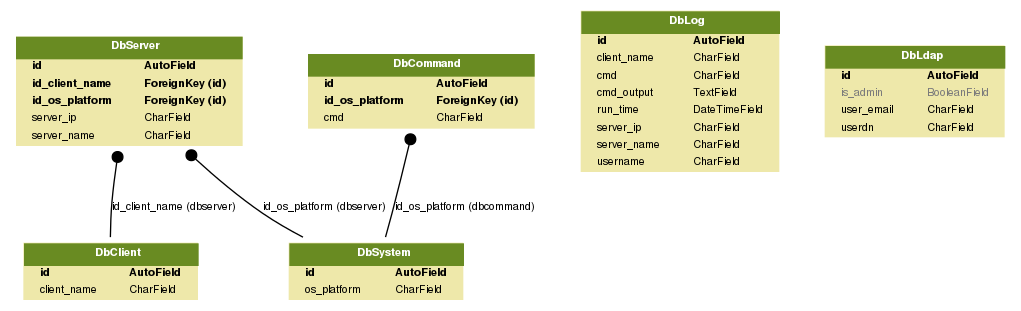
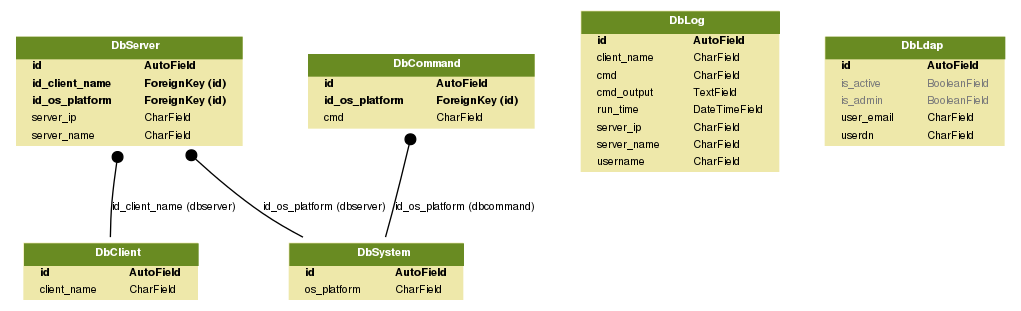
integrate with ldap

Changed region(s): [[0.7894, 0.1158, 1.0, 0.492]]

diff --git a/django_app/webapp/views.py b/django_app/webapp/views.py
@@ -6,6 +6,7 @@ from django.template import RequestContext, loader
 from webapp.models import DbClient, DbSystem, DbServer, DbCommand
 
 from ansible_django.ans_exe import get_ajax
+from ldap_stuff.use_ldap import run_main
 
 import datetime
 import json
@@ -28,6 +29,8 @@ from django.contrib.auth.decorators import login_required
 from django.contrib import auth
 from django.contrib.auth.models import User
 
+from webapp.models import DbLdap
+
 ##render -> we do not need to specify context_instance = RequestContext(request)
 ##render_to_response() -> we do 
 
@@ -36,44 +39,29 @@ USERNAME = ""
 def f(u, p):
   print u, p
   return True
-
+ 
 # auth.authenticate(username=username, password=password)
 # https://docs.djangoproject.com/en/1.10/topics/auth/customizing/
 class MyBackend(object):
   def authenticate(self, username=None, password=None):
-    #login_valid = True
-    #pwd_valid = True
-    #if login_valid and pwd_valid:
-    if f(username, password):
-        try:
-            user = User.objects.get(username=username)
-        except User.DoesNotExist:
-            # Create a new user. There's no need to set a password
-            # because only the password from settings.py is checked.
-            user = User(username=username)
-            user.is_staff = True
-            user.is_superuser = True
-            user.save()
+    #if f(username, password):
+    if run_main(username, password):
+        # run_main checks first in DbLdap if user is there (based on email) if not will add
+        user = DbLdap.objects.get(user_email=username)
         return user
     return None
-
 
 def login_auth(request):
   next = request.POST.get('next', request.GET.get('next', ''))
   if request.method == "POST":
       username = request.POST.get('username')
-      print username
       password = request.POST.get('password')
-      print password
-
-      
       #user = auth.authenticate(username=username, password=password)
       user = MyBackend().authenticate(username=username, password=password)
       print "USER", user, type(user)    # USER admin <class 'django.contrib.auth.models.User'>
-      #user = "dupa"
       if user != None:
 
-          # needed in main() to display logged user, if main view will be refreshed then user disappear - HOW TO FIX?
+          # needed in main() to display logged user
           global USERNAME
           USERNAME = user
 
@@ -92,20 +80,15 @@ def login_auth(request):
 def logout_auth(request):
     auth.logout(request)
     # Redirect back to login page
-    return HttpResponseRedirect(settings.LOGIN_URL)
+    #return HttpResponseRedirect(settings.LOGIN_URL)
+    return HttpResponseRedirect('/')
 
-#@login_required
 def main(request):
-    print request
+    print "request:", request
     print request.user.is_authenticated
+    #user.is_authenticated is by default TRUE
     if not request.user.is_authenticated:
-        print "if"
-        return redirect('/', request.path)
-        #return HttpResponseRedirect('/')
-        #return redirect('%s?next=%s' % (settings.LOGIN_URL, request.path))
-        #return render(request, 'myapp/login_error.html')
-    else:
-        print "else"
+        print "else main"
         client_var = DbClient.objects.all()           # all() -> SELECT * FROM
         system_var = DbSystem.objects.all()
         server_var = DbServer.objects.all()
@@ -116,6 +99,13 @@ def main(request):
         #print client_var, type(client_var)
         context = {'client': client_var, 'system': system_var, 'server': server_var, 'user': USERNAME}
         return render(request, 'webapp/main.html', context)
+
+    else:
+        print "if main"
+        return redirect('/', request.path)
+        #return HttpResponseRedirect('/')
+        #return redirect('%s?next=%s' % (settings.LOGIN_URL, request.path))
+        #return render(request, 'myapp/login_error.html')
 
 def ajax_main(request):
 

diff --git a/django_app/webapp/models.py b/django_app/webapp/models.py
@@ -1,7 +1,7 @@
 from __future__ import unicode_literals
 from django.db import models
 from django.utils import timezone
-import datetime
+
 
 # https://docs.djangoproject.com/en/1.10/topics/db/models/
 # https://docs.djangoproject.com/en/1.9/ref/models/fields/
@@ -63,8 +63,15 @@ class DbLog(models.Model):
 class DbLdap(models.Model):
   id = models.AutoField(primary_key=True)
   user_email = models.CharField(max_length=40, null=False)
-  userdn = models.CharField(max_length=40, null=False)
+  userdn = models.CharField(max_length=80, null=False)
   is_admin = models.BooleanField(default=False)
+  is_active = models.BooleanField(default=True)
+  is_staff = models.BooleanField(default=False)
+
+  #last_login = models.DateTimeField(default=timezone.now, blank=True)
+  last_login = models.DateTimeField(default=timezone.now)
+
+
   def __str__(self):
     return self.user_email
 

diff --git a/django_app/webapp/migrations/0007_auto_20161216_1329.py b/django_app/webapp/migrations/0007_auto_20161216_1329.py
@@ -1,0 +1,21 @@
+# -*- coding: utf-8 -*-
+# Generated by Django 1.10 on 2016-12-16 13:29
+from __future__ import unicode_literals
+
+from django.db import migrations, models
+import django.utils.timezone
+
+
+class Migration(migrations.Migration):
+
+    dependencies = [
+        ('webapp', '0006_auto_20161216_1327'),
+    ]
+
+    operations = [
+        migrations.AlterField(
+            model_name='dbldap',
+            name='last_login',
+            field=models.DateTimeField(blank=True, default=django.utils.timezone.now),
+        ),
+    ]

diff --git a/django_app/webapp/migrations/0009_dbldap_last_login.py b/django_app/webapp/migrations/0009_dbldap_last_login.py
@@ -1,0 +1,21 @@
+# -*- coding: utf-8 -*-
+# Generated by Django 1.10 on 2016-12-16 13:32
+from __future__ import unicode_literals
+
+from django.db import migrations, models
+import django.utils.timezone
+
+
+class Migration(migrations.Migration):
+
+    dependencies = [
+        ('webapp', '0008_remove_dbldap_last_login'),
+    ]
+
+    operations = [
+        migrations.AddField(
+            model_name='dbldap',
+            name='last_login',
+            field=models.DateTimeField(default=django.utils.timezone.now),
+        ),
+    ]

diff --git a/django_app/webapp/migrations/0005_dbldap_date.py b/django_app/webapp/migrations/0005_dbldap_date.py
@@ -1,0 +1,21 @@
+# -*- coding: utf-8 -*-
+# Generated by Django 1.10 on 2016-12-16 13:26
+from __future__ import unicode_literals
+
+import datetime
+from django.db import migrations, models
+
+
+class Migration(migrations.Migration):
+
+    dependencies = [
+        ('webapp', '0004_dbldap_is_active'),
+    ]
+
+    operations = [
+        migrations.AddField(
+            model_name='dbldap',
+            name='date',
+            field=models.DateTimeField(blank=True, default=datetime.datetime.now),
+        ),
+    ]

diff --git a/django_app/webapp/migrations/0004_dbldap_is_active.py b/django_app/webapp/migrations/0004_dbldap_is_active.py
@@ -1,0 +1,20 @@
+# -*- coding: utf-8 -*-
+# Generated by Django 1.10 on 2016-12-16 13:15
+from __future__ import unicode_literals
+
+from django.db import migrations, models
+
+
+class Migration(migrations.Migration):
+
+    dependencies = [
+        ('webapp', '0003_auto_20161216_1204'),
+    ]
+
+    operations = [
+        migrations.AddField(
+            model_name='dbldap',
+            name='is_active',
+            field=models.BooleanField(default=True),
+        ),
+    ]

diff --git a/django_app/webapp/migrations/0010_dbldap_is_staff.py b/django_app/webapp/migrations/0010_dbldap_is_staff.py
@@ -1,0 +1,20 @@
+# -*- coding: utf-8 -*-
+# Generated by Django 1.10 on 2016-12-16 14:04
+from __future__ import unicode_literals
+
+from django.db import migrations, models
+
+
+class Migration(migrations.Migration):
+
+    dependencies = [
+        ('webapp', '0009_dbldap_last_login'),
+    ]
+
+    operations = [
+        migrations.AddField(
+            model_name='dbldap',
+            name='is_staff',
+            field=models.BooleanField(default=False),
+        ),
+    ]

diff --git a/django_app/webapp/migrations/0003_auto_20161216_1204.py b/django_app/webapp/migrations/0003_auto_20161216_1204.py
@@ -1,0 +1,20 @@
+# -*- coding: utf-8 -*-
+# Generated by Django 1.10 on 2016-12-16 12:04
+from __future__ import unicode_literals
+
+from django.db import migrations, models
+
+
+class Migration(migrations.Migration):
+
+    dependencies = [
+        ('webapp', '0002_dbldap'),
+    ]
+
+    operations = [
+        migrations.AlterField(
+            model_name='dbldap',
+            name='userdn',
+            field=models.CharField(max_length=80),
+        ),
+    ]

diff --git a/django_app/webapp/migrations/0006_auto_20161216_1327.py b/django_app/webapp/migrations/0006_auto_20161216_1327.py
@@ -1,0 +1,20 @@
+# -*- coding: utf-8 -*-
+# Generated by Django 1.10 on 2016-12-16 13:27
+from __future__ import unicode_literals
+
+from django.db import migrations
+
+
+class Migration(migrations.Migration):
+
+    dependencies = [
+        ('webapp', '0005_dbldap_date'),
+    ]
+
+    operations = [
+        migrations.RenameField(
+            model_name='dbldap',
+            old_name='date',
+            new_name='last_login',
+        ),
+    ]

diff --git a/django_app/webapp/migrations/0008_remove_dbldap_last_login.py b/django_app/webapp/migrations/0008_remove_dbldap_last_login.py
@@ -1,0 +1,19 @@
+# -*- coding: utf-8 -*-
+# Generated by Django 1.10 on 2016-12-16 13:31
+from __future__ import unicode_literals
+
+from django.db import migrations
+
+
+class Migration(migrations.Migration):
+
+    dependencies = [
+        ('webapp', '0007_auto_20161216_1329'),
+    ]
+
+    operations = [
+        migrations.RemoveField(
+            model_name='dbldap',
+            name='last_login',
+        ),
+    ]

diff --git a/django_app/django_app/urls.py b/django_app/django_app/urls.py
@@ -11,5 +11,4 @@ urlpatterns = [
     #url(r'^$', webapp.views.logout_auth), 
     url(r'^webapp/', include('webapp.urls')),         # webapp as a main page, /$ nothing more than webapp/..
     url(r'^admin/', admin.site.urls),
-    #url(r'^webapp/', include('webapp.urls')),	    
 ]
